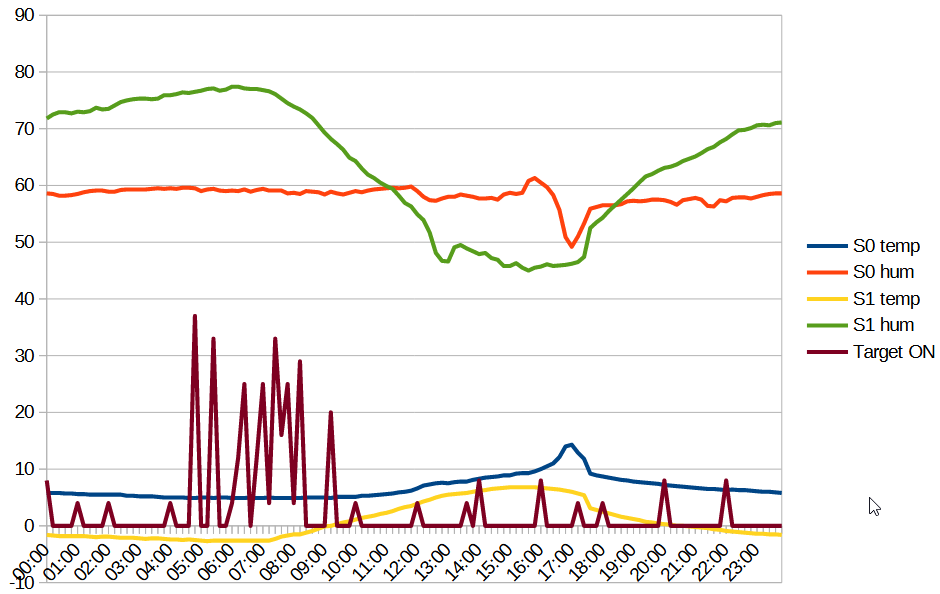
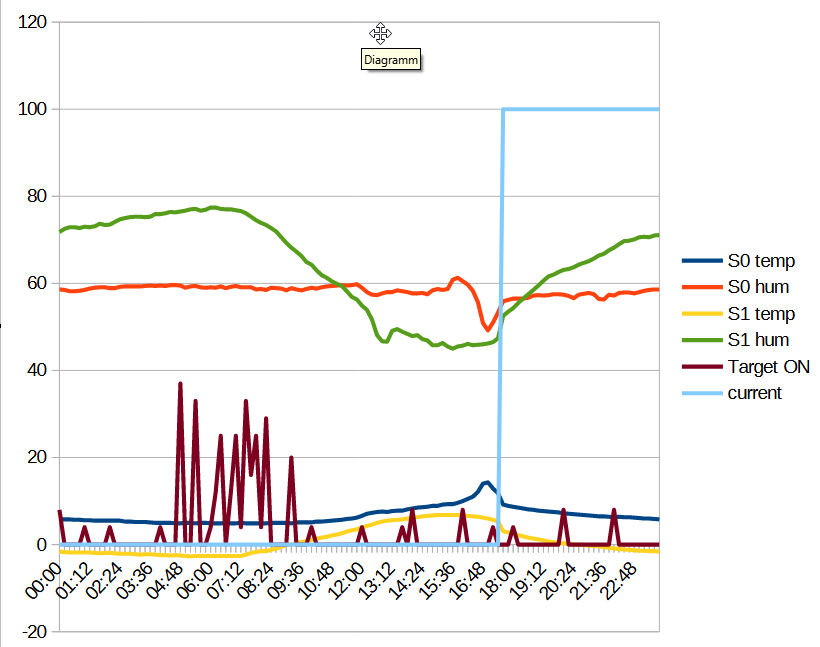
Add slot marker to diagram

diff --git a/include/Version.h b/include/Version.h
@@ -1,9 +1,9 @@
 
     // AUTO GENERATED FILE, DO NOT EDIT
     #ifndef VERSION
-        #define VERSION "1.0.42"
+        #define VERSION "1.0.43"
     #endif
     #ifndef BUILD_TIMESTAMP
-        #define BUILD_TIMESTAMP "2023-03-01 16:12:48.134856"
+        #define BUILD_TIMESTAMP "2023-03-02 16:00:59.390259"
     #endif
     

diff --git a/Extras/README.MD b/Extras/README.MD
@@ -141,6 +141,7 @@ Hence you will have 120 slots per 24h that can be retrieved in a single Modbus r
 There are 120 such values for sensor 0 temperature, humidity, sensor 1 temperature and humidity and the target state value. 
 A complete history data set will have 600 values, each in a Modbus register.
 Floating point sensor values are encoded to fit into the 16 bits of a Modbus register.
+The coding scheme is described on the main page - see section 'History' there.
 
 The ``HISTORY`` command will do all 5 requests and the decoding in one step and outputs the data as a comma-separated list to be processed in a spreadsheet program.
 It is advisable to catch the output in a file and open it in a spreadsheet:
@@ -150,3 +151,7 @@ micha@LinuxBox:~$ DewAir anbau history > anbau.csv
 With a bit of massaging in the spreadsheet you can quickly get some nice diagrams:
 
 <img src=https://github.com/Miq1/DewAir/blob/master/Extras/Diagram.png alt="Sample diagram">
+
+A sixth column is added to the output that is almost empty. The exception is a ``#`` sign in that row where the next slot will be written.
+In the diagram above I used a simple formula (``=IF($H3=" ";$G2;100)``) to have a line jump up at the current slot. It will take a zero as start value and always replicate the value of the line above - except if the neighbouring cell has something other than a blank in it; then the value will set to 100.
+
